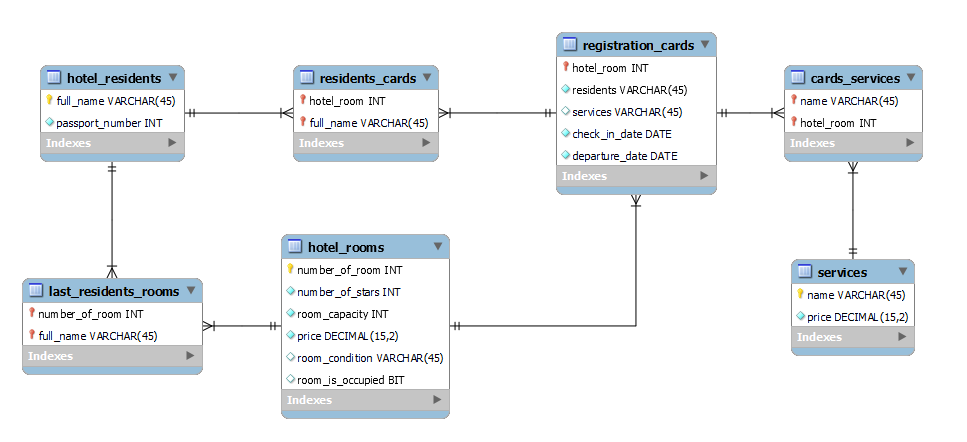
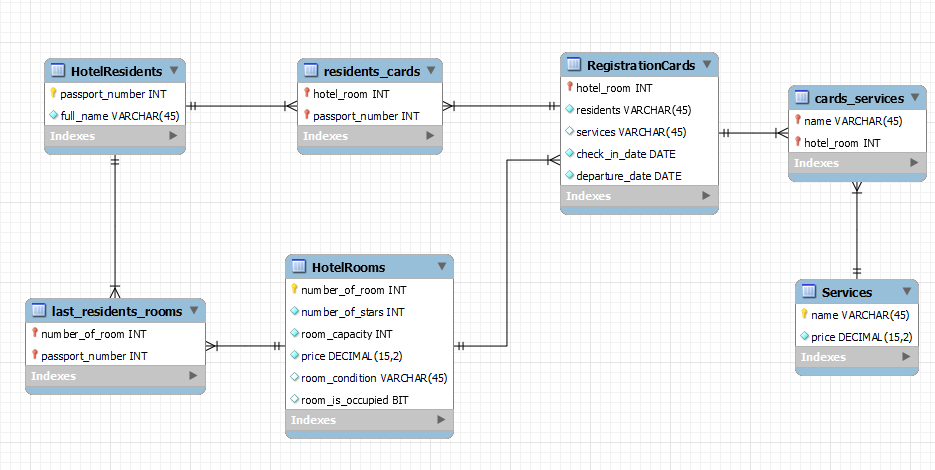
updated task-10

Changed region(s): [[0.0, 0.0588, 0.9925, 0.8529], [0.2791, 0.5294, 0.4963, 0.9706], [0.4652, 0.7059, 0.4963, 0.7647]]

diff --git a/src/main/java/com/senlacourses/electronicHotelAdministrator/domain/service/RegistrationCardService.java b/src/main/java/com/senlacourses/electronicHotelAdministrator/domain/service/RegistrationCardService.java
@@ -46,10 +46,10 @@ public class RegistrationCardService implements IRegistrationCardService {
   }
 
   @Override
-  public void putInTheRoom(int numberOfRoom, String fullNameOfResident, int daysOfStay) {
+  public void putInTheRoom(int numberOfRoom, int passportNumber, int daysOfStay) {
     int indexOfRoom = findIndexOfRoom(numberOfRoom);
     int indexOfRegistrationCard = findIndexOfRegistrationCard(numberOfRoom);
-    int indexOfResident = findIndexOfResident(fullNameOfResident);
+    int indexOfResident = findIndexOfResident(passportNumber);
 
     if (indexOfRoom == -1) {
       logger.error("IllegalArgumentException(\"this room does not exist\")");
@@ -78,10 +78,10 @@ public class RegistrationCardService implements IRegistrationCardService {
   }
 
   @Override
-  public void putInTheRoom(int numberOfRoom, String fullNameOfResident) {
+  public void putInTheRoom(int numberOfRoom, int passportNumber) {
     int indexOfRoom = findIndexOfRoom(numberOfRoom);
     int indexOfRegistrationCard = findIndexOfRegistrationCard(numberOfRoom);
-    int indexOfResident = findIndexOfResident(fullNameOfResident);
+    int indexOfResident = findIndexOfResident(passportNumber);
 
     if (indexOfRegistrationCard == -1) {
       logger.error("UnsupportedOperationException(\n"
@@ -294,13 +294,13 @@ public class RegistrationCardService implements IRegistrationCardService {
   }
 
   @Override
-  public void showResidentServicesByCriterion(String fullName,
+  public void showResidentServicesByCriterion(int passportNumber,
       ServiceSortingCriteria sortingCriteria) {
     Map<LocalDateTime, Service> services = null;
 
     for (int i = 0; i < registrationCardDao.getAll().size(); i++) {
       for (int j = 0; j < registrationCardDao.read(i).getResidents().size(); j++) {
-        if (registrationCardDao.read(i).getResidents().get(j).fullName().equals(fullName)) {
+        if (registrationCardDao.read(i).getResidents().get(j).passportNumber() == passportNumber) {
           services = registrationCardDao.read(i).getServices();
           break;
         }
@@ -357,11 +357,11 @@ public class RegistrationCardService implements IRegistrationCardService {
     return indexOfRegistrationCard;
   }
 
-  private int findIndexOfResident(String name) {
+  private int findIndexOfResident(int passportNumber) {
     int indexOfResident = -1;
 
     for (int i = 0; i < hotelResidentDao.getAll().size(); i++) {
-      if (hotelResidentDao.read(i).fullName().equals(name)) {
+      if (hotelResidentDao.read(i).passportNumber() == passportNumber) {
         indexOfResident = i;
         break;
       }

diff --git a/src/main/java/com/senlacourses/electronicHotelAdministrator/domain/controller/RegistrationCardController.java b/src/main/java/com/senlacourses/electronicHotelAdministrator/domain/controller/RegistrationCardController.java
@@ -19,13 +19,13 @@ public class RegistrationCardController implements IRegistrationCardController {
   }
 
   @Override
-  public void putInTheRoom(int numberOfRoom, String fullNameOfResident, int daysOfStay) {
-    registrationCardService.putInTheRoom(numberOfRoom, fullNameOfResident, daysOfStay);
+  public void putInTheRoom(int numberOfRoom, int passportNumber, int daysOfStay) {
+    registrationCardService.putInTheRoom(numberOfRoom, passportNumber, daysOfStay);
   }
 
   @Override
-  public void putInTheRoom(int numberOfRoom, String fullNameOfResident) {
-    registrationCardService.putInTheRoom(numberOfRoom, fullNameOfResident);
+  public void putInTheRoom(int numberOfRoom, int passportNumber) {
+    registrationCardService.putInTheRoom(numberOfRoom, passportNumber);
   }
 
   @Override
@@ -60,7 +60,7 @@ public class RegistrationCardController implements IRegistrationCardController {
 
   @Override
   public void showResidentServicesByCriterion(
-      String fullName, ServiceSortingCriteria sortingCriteria) {
-    registrationCardService.showResidentServicesByCriterion(fullName, sortingCriteria);
+          int passportNumber, ServiceSortingCriteria sortingCriteria) {
+    registrationCardService.showResidentServicesByCriterion(passportNumber, sortingCriteria);
   }
 }

diff --git a/src/main/java/com/senlacourses/electronicHotelAdministrator/ui/actions/residentCard/PutInTheRoomActon.java b/src/main/java/com/senlacourses/electronicHotelAdministrator/ui/actions/residentCard/PutInTheRoomActon.java
@@ -17,20 +17,20 @@ public class PutInTheRoomActon implements IAction {
   public void execute() {
     Scanner scanner = new Scanner(System.in);
     int numberOfRoom;
-    String fullNameOfResident;
+    int passportNumber;
     int daysOfStay;
 
     System.out.print("Enter number of room: ");
     numberOfRoom = scanner.nextInt();
-    System.out.print("Enter full name of resident: ");
-    fullNameOfResident = scanner.next();
+    System.out.print("Enter passport number of resident: ");
+    passportNumber = scanner.nextInt();
     System.out.print(
         "Enter days of stay or press '0', if this room is already occupied by someone: ");
     daysOfStay = scanner.nextInt();
     if (daysOfStay == 0) {
-      controller.putInTheRoom(numberOfRoom, fullNameOfResident, daysOfStay);
+      controller.putInTheRoom(numberOfRoom, passportNumber, daysOfStay);
       return;
     }
-    new RegistrationCardService().putInTheRoom(numberOfRoom, fullNameOfResident);
+    controller.putInTheRoom(numberOfRoom, passportNumber);
   }
 }

diff --git a/src/main/java/com/senlacourses/electronicHotelAdministrator/domain/service/HotelResidentService.java b/src/main/java/com/senlacourses/electronicHotelAdministrator/domain/service/HotelResidentService.java
@@ -26,8 +26,8 @@ public class HotelResidentService implements IHotelResidentService {
   }
 
   @Override
-  public void removeResident(String fullName) {
-    int indexOfResident = findIndexOfResident(fullName);
+  public void removeResident(int passportNumber) {
+    int indexOfResident = findIndexOfResident(passportNumber);
 
     if (indexOfResident == -1) {
       logger.error("IllegalArgumentException(\"Incorrect argument\")");
@@ -37,11 +37,11 @@ public class HotelResidentService implements IHotelResidentService {
     hotelResidentDao.delete(hotelResidentDao.read(indexOfResident));
   }
 
-  private int findIndexOfResident(String name) {
+  private int findIndexOfResident(int passportNumber) {
     int indexOfResident = -1;
 
     for (int i = 0; i < hotelResidentDao.getAll().size(); i++) {
-      if (hotelResidentDao.read(i).fullName().equals(name)) {
+      if (hotelResidentDao.read(i).passportNumber() == passportNumber) {
         indexOfResident = i;
         break;
       }

diff --git a/src/main/java/com/senlacourses/electronicHotelAdministrator/domain/controller/interfaces/IRegistrationCardController.java b/src/main/java/com/senlacourses/electronicHotelAdministrator/domain/controller/interfaces/IRegistrationCardController.java
@@ -7,9 +7,9 @@ public interface IRegistrationCardController {
 
   void showOccupiedRooms();
 
-  void putInTheRoom(int numberOfRoom, String fullNameOfResident, int daysOfStay);
+  void putInTheRoom(int numberOfRoom, int passportNumber, int daysOfStay);
 
-  void putInTheRoom(int numberOfRoom, String fullNameOfResident);
+  void putInTheRoom(int numberOfRoom, int passportNumber);
 
   void evictFromTheRoom(int numberOfRoom, int indexOfResidentInRoom);
 
@@ -23,5 +23,5 @@ public interface IRegistrationCardController {
 
   void showAmountOfPayment(int numberOfRoom, int daysOfStay);
 
-  void showResidentServicesByCriterion(String fullName, ServiceSortingCriteria sortingCriteria);
+  void showResidentServicesByCriterion(int passportNumber, ServiceSortingCriteria sortingCriteria);
 }

diff --git a/src/main/java/com/senlacourses/electronicHotelAdministrator/domain/service/interfaces/IRegistrationCardService.java b/src/main/java/com/senlacourses/electronicHotelAdministrator/domain/service/interfaces/IRegistrationCardService.java
@@ -7,9 +7,9 @@ public interface IRegistrationCardService {
 
   void showOccupiedRooms();
 
-  void putInTheRoom(int numberOfRoom, String fullNameOfResident, int daysOfStay);
+  void putInTheRoom(int numberOfRoom, int passportNumber, int daysOfStay);
 
-  void putInTheRoom(int numberOfRoom, String fullNameOfResident);
+  void putInTheRoom(int numberOfRoom, int passportNumber);
 
   void evictFromTheRoom(int numberOfRoom, int indexOfResidentInRoom);
 
@@ -23,5 +23,5 @@ public interface IRegistrationCardService {
 
   void showAmountOfPayment(int numberOfRoom, int daysOfStay);
 
-  void showResidentServicesByCriterion(String fullName, ServiceSortingCriteria sortingCriteria);
+  void showResidentServicesByCriterion(int passportNumber, ServiceSortingCriteria sortingCriteria);
 }

diff --git a/src/main/java/com/senlacourses/electronicHotelAdministrator/ui/actions/residentCard/ShowResidentServicesByCriterion.java b/src/main/java/com/senlacourses/electronicHotelAdministrator/ui/actions/residentCard/ShowResidentServicesByCriterion.java
@@ -16,13 +16,13 @@ public class ShowResidentServicesByCriterion implements IAction {
   @Override
   public void execute() {
     Scanner scanner = new Scanner(System.in);
-    String fullName;
+    int passportNumber;
     ServiceSortingCriteria criterion;
 
-    System.out.print("Enter occupied room sorting criteria: ");
-    fullName = scanner.nextLine();
+    System.out.print("Enter passport number of resident: ");
+    passportNumber = scanner.nextInt();
     System.out.print("\nEnter occupied room sorting criteria: ");
     criterion = ServiceSortingCriteria.valueOf(scanner.next().toUpperCase());
-    controller.showResidentServicesByCriterion(fullName, criterion);
+    controller.showResidentServicesByCriterion(passportNumber, criterion);
   }
 }

diff --git a/src/main/java/com/senlacourses/electronicHotelAdministrator/ui/actions/residentCard/EvictFromTheRoomAction.java b/src/main/java/com/senlacourses/electronicHotelAdministrator/ui/actions/residentCard/EvictFromTheRoomAction.java
@@ -25,7 +25,7 @@ public class EvictFromTheRoomAction implements IAction {
         "\nEnter index of resident in room or press 'enter', if you want to evict everyone: ");
     indexOfResidentInRoom = scanner.nextLine();
     if (indexOfResidentInRoom == null) {
-      new RegistrationCardService().evictFromTheRoom(numberOfRoom);
+      controller.evictFromTheRoom(numberOfRoom);
       return;
     }
     controller.evictFromTheRoom(numberOfRoom, Integer.parseInt(indexOfResidentInRoom));

diff --git a/src/main/java/com/senlacourses/electronicHotelAdministrator/ui/actions/hotelResident/RemoveResidentAction.java b/src/main/java/com/senlacourses/electronicHotelAdministrator/ui/actions/hotelResident/RemoveResidentAction.java
@@ -15,10 +15,10 @@ public class RemoveResidentAction implements IAction {
   @Override
   public void execute() {
     Scanner scanner = new Scanner(System.in);
-    String fullName;
+    int passportNumber;
 
-    System.out.print("Enter full name: ");
-    fullName = scanner.nextLine();
-    controller.removeResident(fullName);
+    System.out.print("Enter passport number: ");
+    passportNumber = scanner.nextInt();
+    controller.removeResident(passportNumber);
   }
 }

diff --git a/src/main/java/com/senlacourses/electronicHotelAdministrator/domain/model/RegistrationCard.java b/src/main/java/com/senlacourses/electronicHotelAdministrator/domain/model/RegistrationCard.java
@@ -21,7 +21,7 @@ public class RegistrationCard implements Serializable {
     this.hotelRoom = hotelRoom;
     this.residents.add(hotelResident);
     this.checkInDate = LocalDate.now();
-    departureDate = checkInDate.plusDays(daysOfStay);
+    this.departureDate = checkInDate.plusDays(daysOfStay);
   }
 
   public HotelRoom getHotelRoom() {

diff --git a/src/main/java/com/senlacourses/electronicHotelAdministrator/domain/controller/HotelResidentController.java b/src/main/java/com/senlacourses/electronicHotelAdministrator/domain/controller/HotelResidentController.java
@@ -22,7 +22,7 @@ public class HotelResidentController implements IHotelResidentController {
   }
 
   @Override
-  public void removeResident(String fullName) {
-    hotelResidentService.removeResident(fullName);
+  public void removeResident(int passportNumber) {
+    hotelResidentService.removeResident(passportNumber);
   }
 }

diff --git a/src/main/java/com/senlacourses/electronicHotelAdministrator/domain/controller/interfaces/IHotelResidentController.java b/src/main/java/com/senlacourses/electronicHotelAdministrator/domain/controller/interfaces/IHotelResidentController.java
@@ -6,5 +6,5 @@ public interface IHotelResidentController {
 
   void addNewResident(String fullName, int passportNumber);
 
-  void removeResident(String fullName);
+  void removeResident(int passportNumber);
 }
